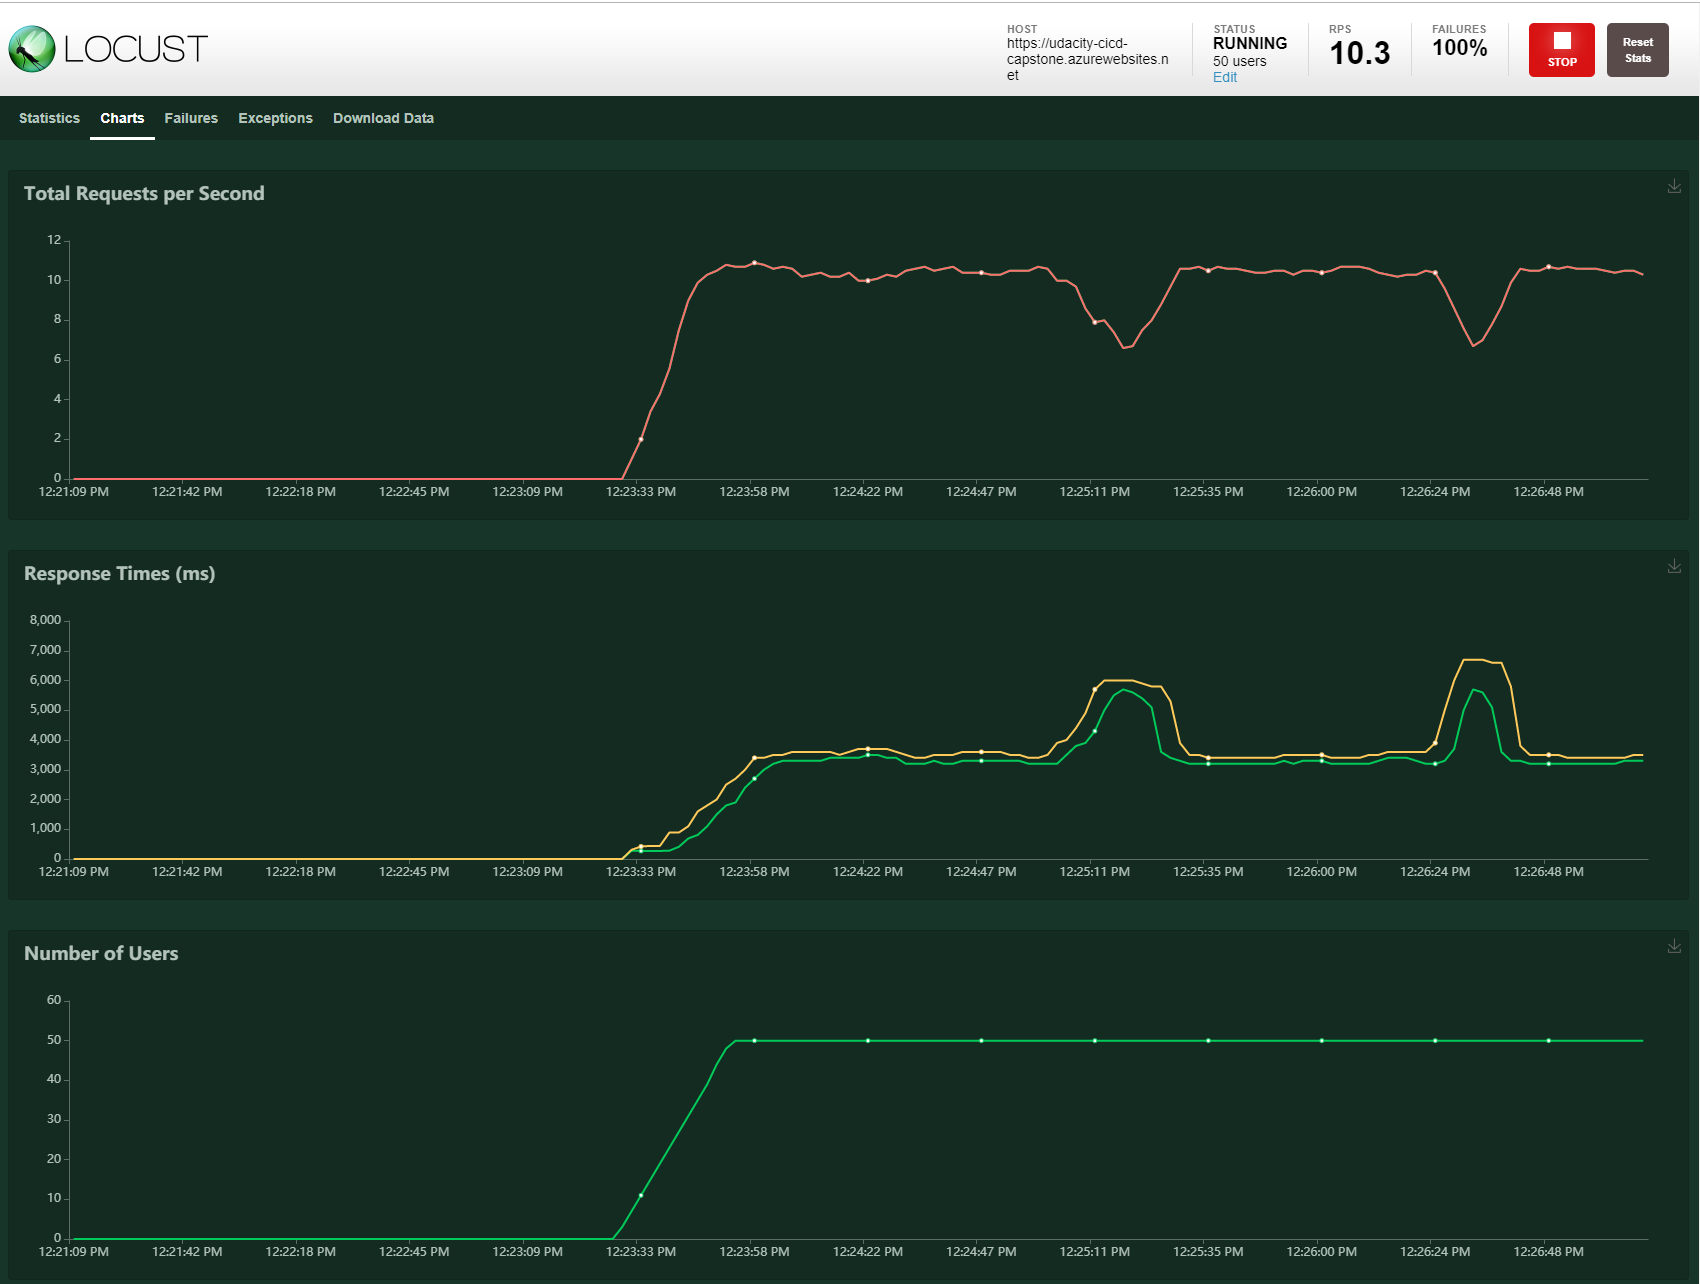
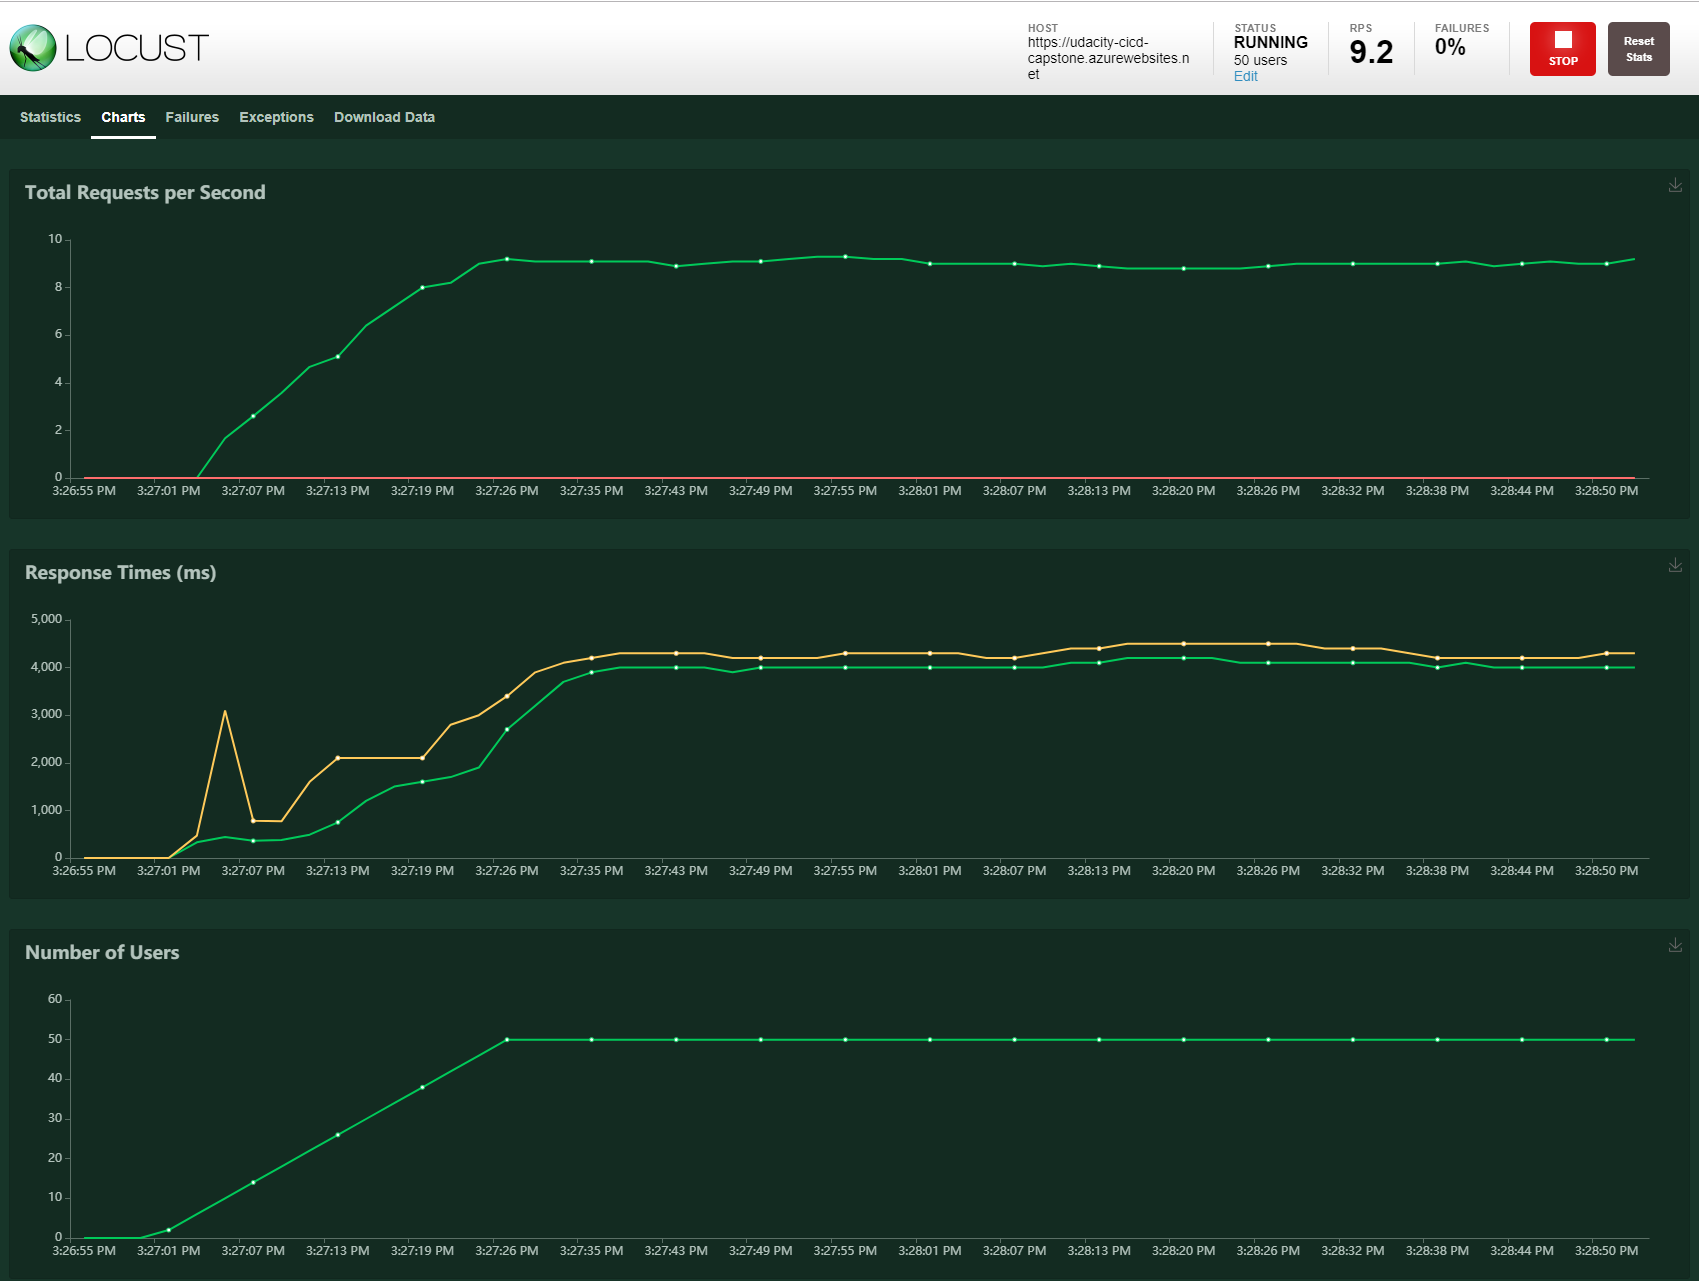
Updated ReadMe with Locust Load Test result

diff --git a/locustfile.py b/locustfile.py
@@ -1,12 +1,17 @@
 from locust import HttpUser, TaskSet, task
+import json
 
+# Loading the test JSON data
+with open('test_data.json') as f:
+    test_data = json.loads(f.read())
+    
 class MyTask(TaskSet):
     def get_root_path(self):
         self.client.get("/")
     
     @task
     def get_predictions(self):
-        self.client.post("/predict")
+        self.client.post("/predict", json = test_data)
 
 class MyLocust(HttpUser):
     tasks = [MyTask]
